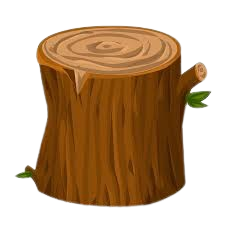
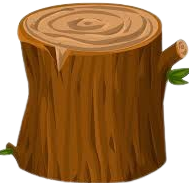
De objecten bewegen nu random ze hebben allebij een werkende collision en als je af gaat kan je de game juist opnieuw starten doordat de object bewegen naar hun startpositie

diff --git a/script/script.js b/script/script.js
@@ -1,49 +1,42 @@
+// Elements
 const character = document.getElementById("character");
 const enemy = document.getElementById("enemy");
 const enemy1 = document.getElementById("enemy1");
+const scoreboard = document.getElementById("scoreboard");
 
-
-// startpositie enemy 
+// Enemy setup
 let enemyX = 1900;
 enemy.style.left = enemyX + "px";
 
-// beweeg enemy automatisch naar links
 setInterval(() => {
-  enemyX -= 12;
-  if (enemyX < 90) {
+  enemyX -= 14;
+  if (enemyX < -300) {
     enemyX = 1700;
   }
   enemy.style.left = enemyX + "px";
-
   checkCollision();
 }, 20);
 
-
-
-// startpositie enemy1
 let enemy1X = 2500;
 enemy1.style.left = enemy1X + "px";
 
-// beweeg enemy1 automatisch naar links
 setInterval(() => {
-  enemy1X -= 10;
-  if (enemy1X < 100) {
+  enemy1X -= 12;
+  if (enemy1X < -500) {
     enemy1X = 1500;
   }
   enemy1.style.left = enemy1X + "px";
-
-  // check collision here every frame
   checkCollision();
 }, 20);
 
-// jump variables
+// Jump logic
 let isJumping = false;
 let jumpHeight = 190;
 let jumpSpeed = 5;
 let gravity = 3;
-let groundY = 599;
+let groundY = 459;
 
-document.addEventListener('keydown', event => {
+document.addEventListener("keydown", event => {
   if (event.key === "w" || event.key === "W" || event.key === "PageUp") {
     jump();
   }
@@ -58,7 +51,7 @@ function jump() {
     if (position <= groundY - jumpHeight) {
       clearInterval(upInterval);
 
-      // vallen
+      // Falling down
       let downInterval = setInterval(() => {
         if (position >= groundY) {
           clearInterval(downInterval);
@@ -77,55 +70,63 @@ function jump() {
   }, jumpSpeed);
 }
 
-// Highscore
- let score = 0;
- let highscore = localStorage.getItem("Highscore") || 0;
-
-const scoreboard = document.getElementById("scoreboard"); 
+// Score + Highscore
+let score = 0;
+let highscore = localStorage.getItem("Highscore") || 0;
 
 function updateScoreboard() {
   scoreboard.textContent = `Score: ${score} Highscore: ${highscore}`;
 }
-  setInterval(() => {
-    score +=1;
-    if (score >highscore){
-      higscore = score;
-      localStorage.getItem("Highscore", highscore)
-    }
-updateScoreboard();
+
+setInterval(() => {
+  score += 1;
+  if (score > highscore) {
+    highscore = score;
+    localStorage.setItem("Highscore", highscore);
+  }
+  updateScoreboard();
 }, 50);
 
-
-// eenvoudige botsingsdetectie enemy (collision detection)
+// Collision detection 
 function checkCollision() {
   const charRect = character.getBoundingClientRect();
   const enemyRect = enemy.getBoundingClientRect();
+  const enemy1Rect = enemy1.getBoundingClientRect();
 
+  // Collision with enemy
   if (
     charRect.left < enemyRect.right &&
     charRect.right > enemyRect.left &&
     charRect.top < enemyRect.bottom &&
     charRect.bottom > enemyRect.top
   ) {
-    alert("💥 Game Over!");
-    location.reload(); // restart game after alert
+    gameOver();
   }
-}
 
-
-// eenvoudige botsingsdetectie enemy1 (collision detection)
-function checkCollision() {
-  const charRect = character.getBoundingClientRect();
-  const enemy1Rect = enemy1.getBoundingClientRect();
-
+  // Collision with enemy1
   if (
     charRect.left < enemy1Rect.right &&
     charRect.right > enemy1Rect.left &&
     charRect.top < enemy1Rect.bottom &&
     charRect.bottom > enemy1Rect.top
   ) {
-    alert("💥 Game Over!");
-    location.reload(); // restart game after alert
+    gameOver();
   }
 }
 
+function gameOver() {
+  alert("💥 Game Over!");
+  resetGame();
+}
+
+function resetGame() {
+  // Reset enemy positions
+  enemyX = 1900;
+  enemy.style.left = enemyX + "px";
+  enemy1X = 2500;
+  enemy1.style.left = enemy1X + "px";
+
+  // Optionally reset score
+  score = 0;
+  updateScoreboard();
+}

diff --git a/style/project.css b/style/project.css
@@ -12,6 +12,7 @@ body {
 }
 
 #container {
+    position: relative;
     height: 648px;
     margin: auto;
     margin-top: 50px;
@@ -30,15 +31,15 @@ body {
     width: 100px;
     height: 100px;
     position: absolute;
-    top: 599px;
-    left: 301px;
+    top: 449px;
+    left: 101px;
 }
 
 #enemy {
-    width: 80px;
-    height: 80px;
+    width: 60px;
+    height: 60px;
     position: absolute;
-    top: 641px;
+    top: 499px;
     left: 1200px;
 }
 
@@ -46,7 +47,7 @@ body {
     width: 55px;
     height: 65px;
     position: absolute;
-    top: 651px;
+    top: 499px;
     left: 1300px;
 }
 
@@ -57,33 +58,28 @@ body {
     font-size: xx-large;
     height: auto;
 
-        align-items: center;
-        margin: auto;
-        margin-top:15px;
-        width: 250px;
-        border:10px solid black;
-        box-shadow: 10px 5px 5px rgb(14, 60, 241);
-        border-radius:5dvi;
+    align-items: center;
+    margin: auto;
+    margin-top: 15px;
+    width: 250px;
+    border: 10px solid black;
+    box-shadow: 10px 5px 5px rgb(14, 60, 241);
+    border-radius: 5dvi;
 
-    }
-   
-#restartButton {
-  position: fixed;          
-  left: 50%;               
-  bottom: 300px;             
-  transform: translateX(-50%); 
-  padding: 10px 20px;
-  font-size: 1rem;
-  background: green;
-  color: white;
-  border: none;
-  border-radius: 6px;
-  cursor: pointer;
-
-  display: none;
 }
 
+#restartButton {
+    position: fixed;
+    left: 50%;
+    bottom: 300px;
+    transform: translateX(-50%);
+    padding: 10px 20px;
+    font-size: 1rem;
+    background: green;
+    color: white;
+    border: none;
+    border-radius: 6px;
+    cursor: pointer;
 
-
-
-   
+    display: none;
+}
